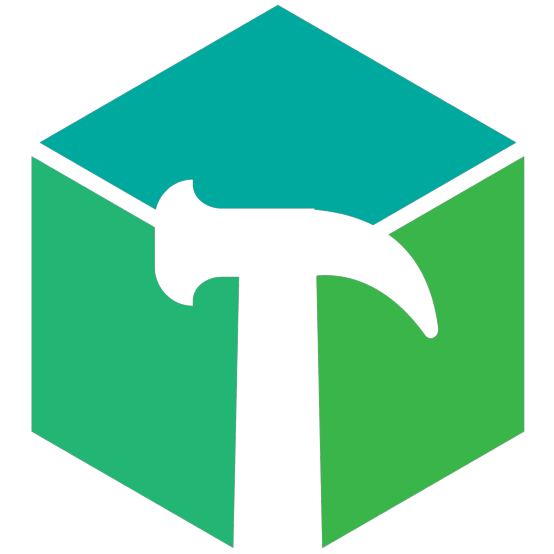
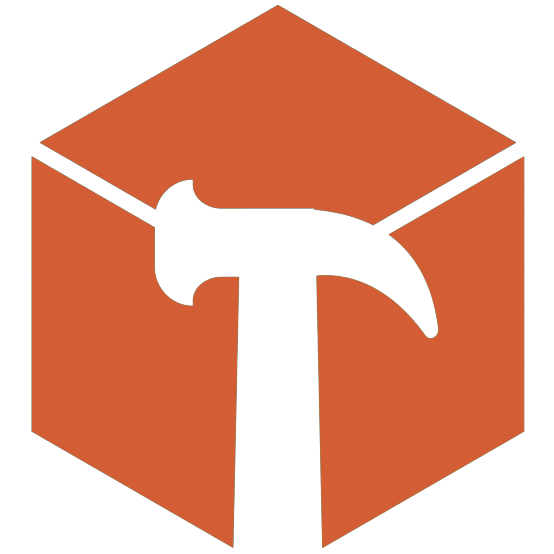
finalização dos ícones e transição dos elementos

diff --git a/index.html b/index.html
@@ -35,14 +35,17 @@
          letter-spacing: 0.3px;
          }
 
+         .icon-container {
+    transition: color 0.3s ease; /* Adiciona transição para a propriedade color */
+}
 
 .icon-container:hover {
     color: #ba5e3b; /* Cor ao passar o mouse */
 }
 
-/* Deixa a imagem em preto e branco */
 .icon-container img {
     filter: grayscale(100%);
+    transition: filter 0.3s ease; /* Adiciona transição para a propriedade filter */
 }
 
 .icon-container img:hover {
@@ -188,7 +191,7 @@
                <ul class="list-inline list-icons">
                   <li class="list-inline-item">
                      <div class="icon-container">
-                        <img src="img/power_bi.png" alt="HTML5 Icon" class="png" width="44" height="44">
+                      <img src="img/pbi.svg" alt="HTML5 Icon" class="svg-icon" width="44" height="44">
                         <p>POWER BI</p>
                      </div>
                   </li>
@@ -212,13 +215,13 @@
                   </li>
                   <li class="list-inline-item">
                      <div class="icon-container">
-                        <img src="img/mysql.svg" alt="HTML5 Icon" class="svg-icon" width="44" height="44">
+                      <img src="img/mysql.png" alt="HTML5 Icon" class="png" width="44" height="44">
                         <p>MYSQL</p>
                      </div>
                   </li>
                   <li class="list-inline-item">
                      <div class="icon-container">
-                        <img src="img/pdi.webp" alt="HTML5 Icon" class="webp-icon" width="44" height="44">
+                      <img src="img/pdi.png" alt="HTML5 Icon" class="png" width="44" height="44">
                         <p>PENTAHO</p>
                      </div>
                   </li>
@@ -251,7 +254,7 @@
                   </li>
                   <li class="list-inline-item">
                      <div class="icon-container">
-                        <img src="img/sql.svg" alt="HTML5 Icon" class="svg-icon" width="44" height="44">
+                      <img src="img/sql.png" alt="HTML5 Icon" class="png" width="44" height="44">
                         <p>SQL</p>
                      </div>
                   </li>
@@ -281,26 +284,26 @@
                <ul class="list-inline list-icons">
                   <li class="list-inline-item">
                      <div class="icon-container">
-                        <img src="img/figma.png" alt="HTML5 Icon" class="png" width="44" height="34">
+                        <img src="img/figma.png" alt="HTML5 Icon" class="png" width="44" height="44">
                         <p>FIGMA</p>
                      </div>
                   </li>
                   <li class="list-inline-item">
                      <div class="icon-container">
-                        <img src="img/corel.png" alt="HTML5 Icon" class="png" width="38" height="38">
+                      <img src="img/corel.svg" alt="HTML5 Icon" class="svg-icon" width="44" height="44">
                         <p>COREL DRAW</p>
                      </div>
                   </li>
                   <li class="list-inline-item">
                      <div class="icon-container">
                         <img src="img/ai.png" alt="HTML5 Icon" class="png" width="44" height="44">
-                        <p>ADOBE ILLUSTRATOR</p>
+                        <p>ILLUSTRATOR</p>
                      </div>
                   </li>
                   <li class="list-inline-item">
                      <div class="icon-container">
                         <img src="img/ps.png" alt="HTML5 Icon" class="png" width="44" height="44">
-                        <p>ADOBE PHOTOSHOP</p>
+                        <p>PHOTOSHOP</p>
                      </div>
                   </li>
                </ul>
